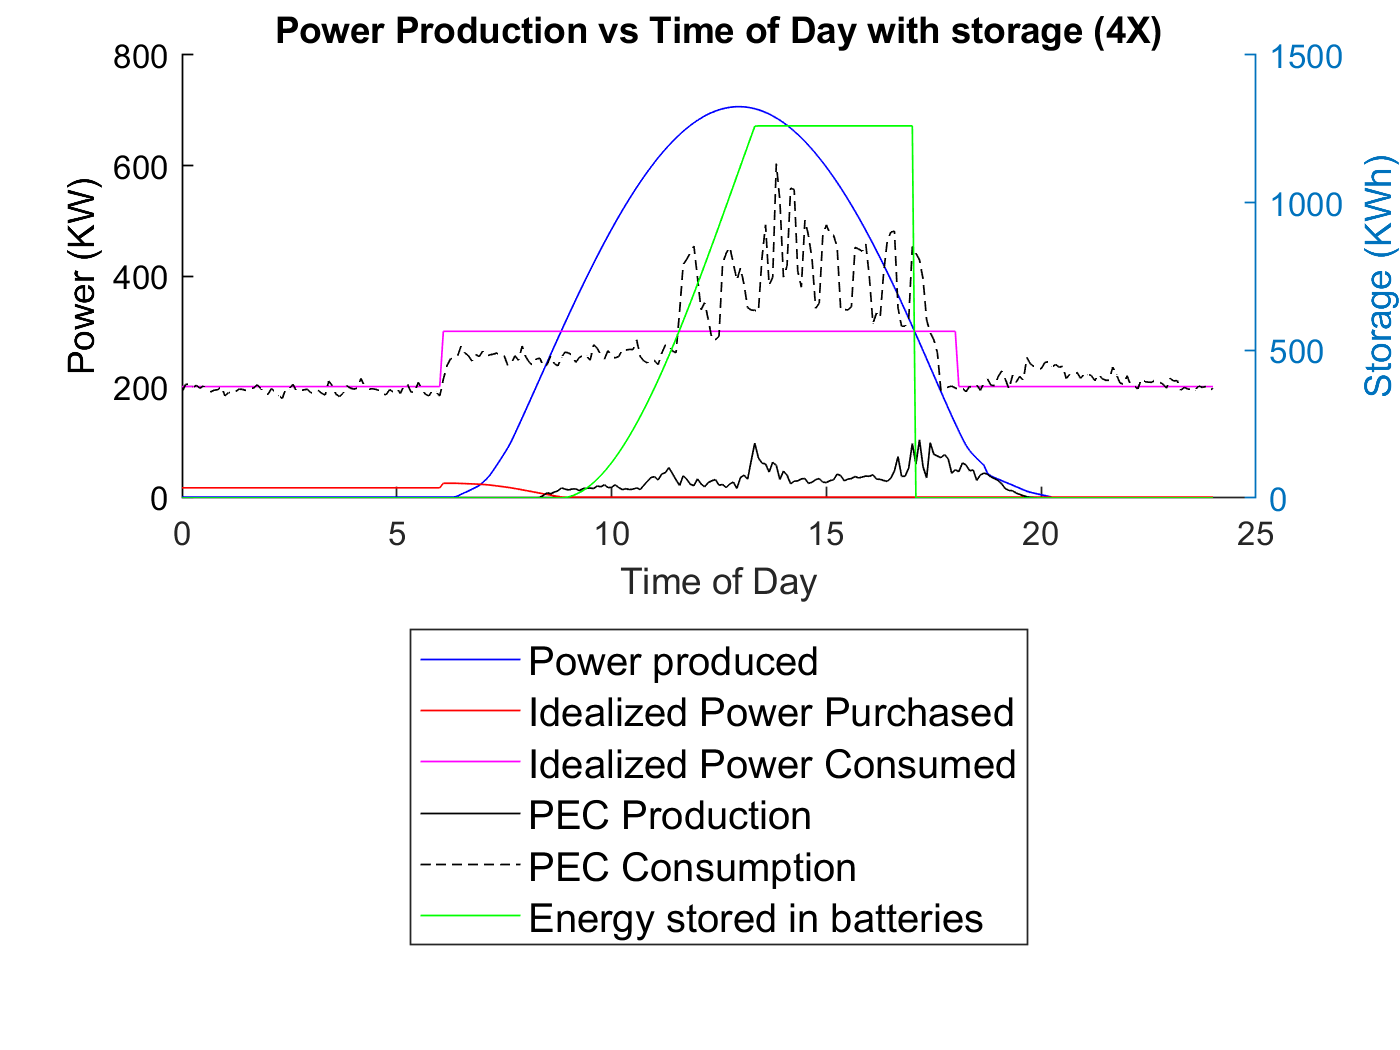
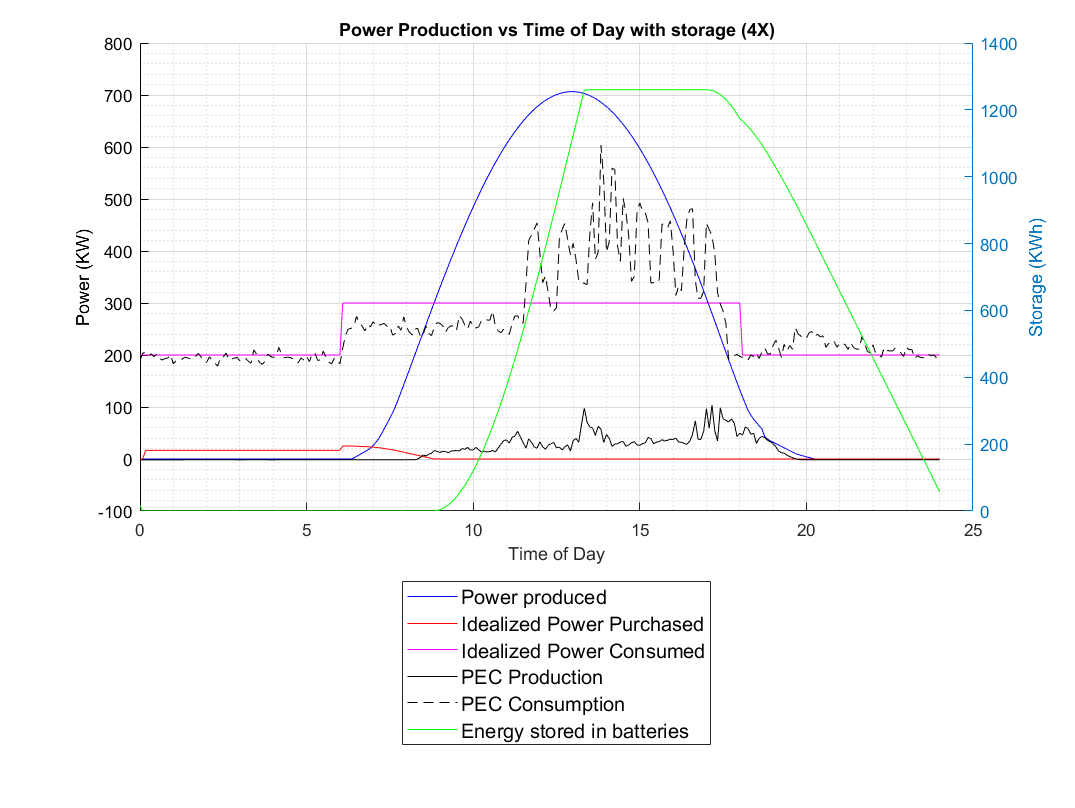
Fixed the battery storage on all case 6 graphs

diff --git a/P2_C6_1.m b/P2_C6_1.m
@@ -103,19 +103,21 @@ hold on;
 grid on;
 xlabel('Time of Day');
 ylabel('Power (Kw)');
+yyaxis left
 plot(TOD,generated,'b-');
-plot(TOD,cconsumption,'r-');
+plot(TOD,purchased,'r-');
 yyaxis right
-plot(TOD,storage,'g-'); %Only one on the right bc its KWH
+plot(TOD,storage,'g--'); %Only one on the right bc its KWH
 ylabel ('Storage (KWh)');
+yyaxis left
 plot(TOD,consum,'m-');
 plot(TOD,pec_prod,'k-');
 plot(TOD,pec_consumption,'k--');
 grid off;
 hold off;
 title('Power Production vs Time of Day with storage (1X)')
-legend('Power produced','Idealized Power Purchased','Energy stored in batteries'...
-    ,'Idealized Power Consumed','PEC Production','PEC Consumption')
+legend('Power produced','Idealized Power Purchased',...
+    'Idealized Power Consumed','PEC Production','PEC Consumption','Energy stored in batteries');
 set(legend,'Location','southoutside','FontSize',12);
 
 

diff --git a/P2_C6_1_Kazi.m b/P2_C6_1_Kazi.m
@@ -135,7 +135,19 @@ plot(TOD,storage,'g-'); %Only one on the right bc its KWH
 ylabel ('Storage (KWh)');
 grid off;
 hold off;
-title('Power Production vs Time of Day with storage (6X)')
+
+if x==1
+    title('Power Production vs Time of Day with storage (1X)');
+    end
+
+elseif x==4
+    title('Power Production vs Time of Day with storage (4X)');
+    end
+
+elseif x == 6
+    title('Power Production vs Time of Day with storage (6X)');
+    end
+
 legend('Power produced','Idealized Power Purchased'...
     ,'Idealized Power Consumed','PEC Production','PEC Consumption','Energy stored in batteries')
 set(legend,'Location','southoutside','FontSize',12);

diff --git a/P2_C6_29th.m b/P2_C6_29th.m
@@ -51,7 +51,7 @@ plot(TOD,generated,'b-');
 plot(TOD,purchased,'r-');
 yyaxis right;
 ylabel('Storage (Kwh)')
-plot(TOD,stored,'g-');
+plot(TOD,stored,'g--');
 yyaxis left;
 plot(TOD,consum,'m-');
 plot(TOD,pec_prod,'k-');
